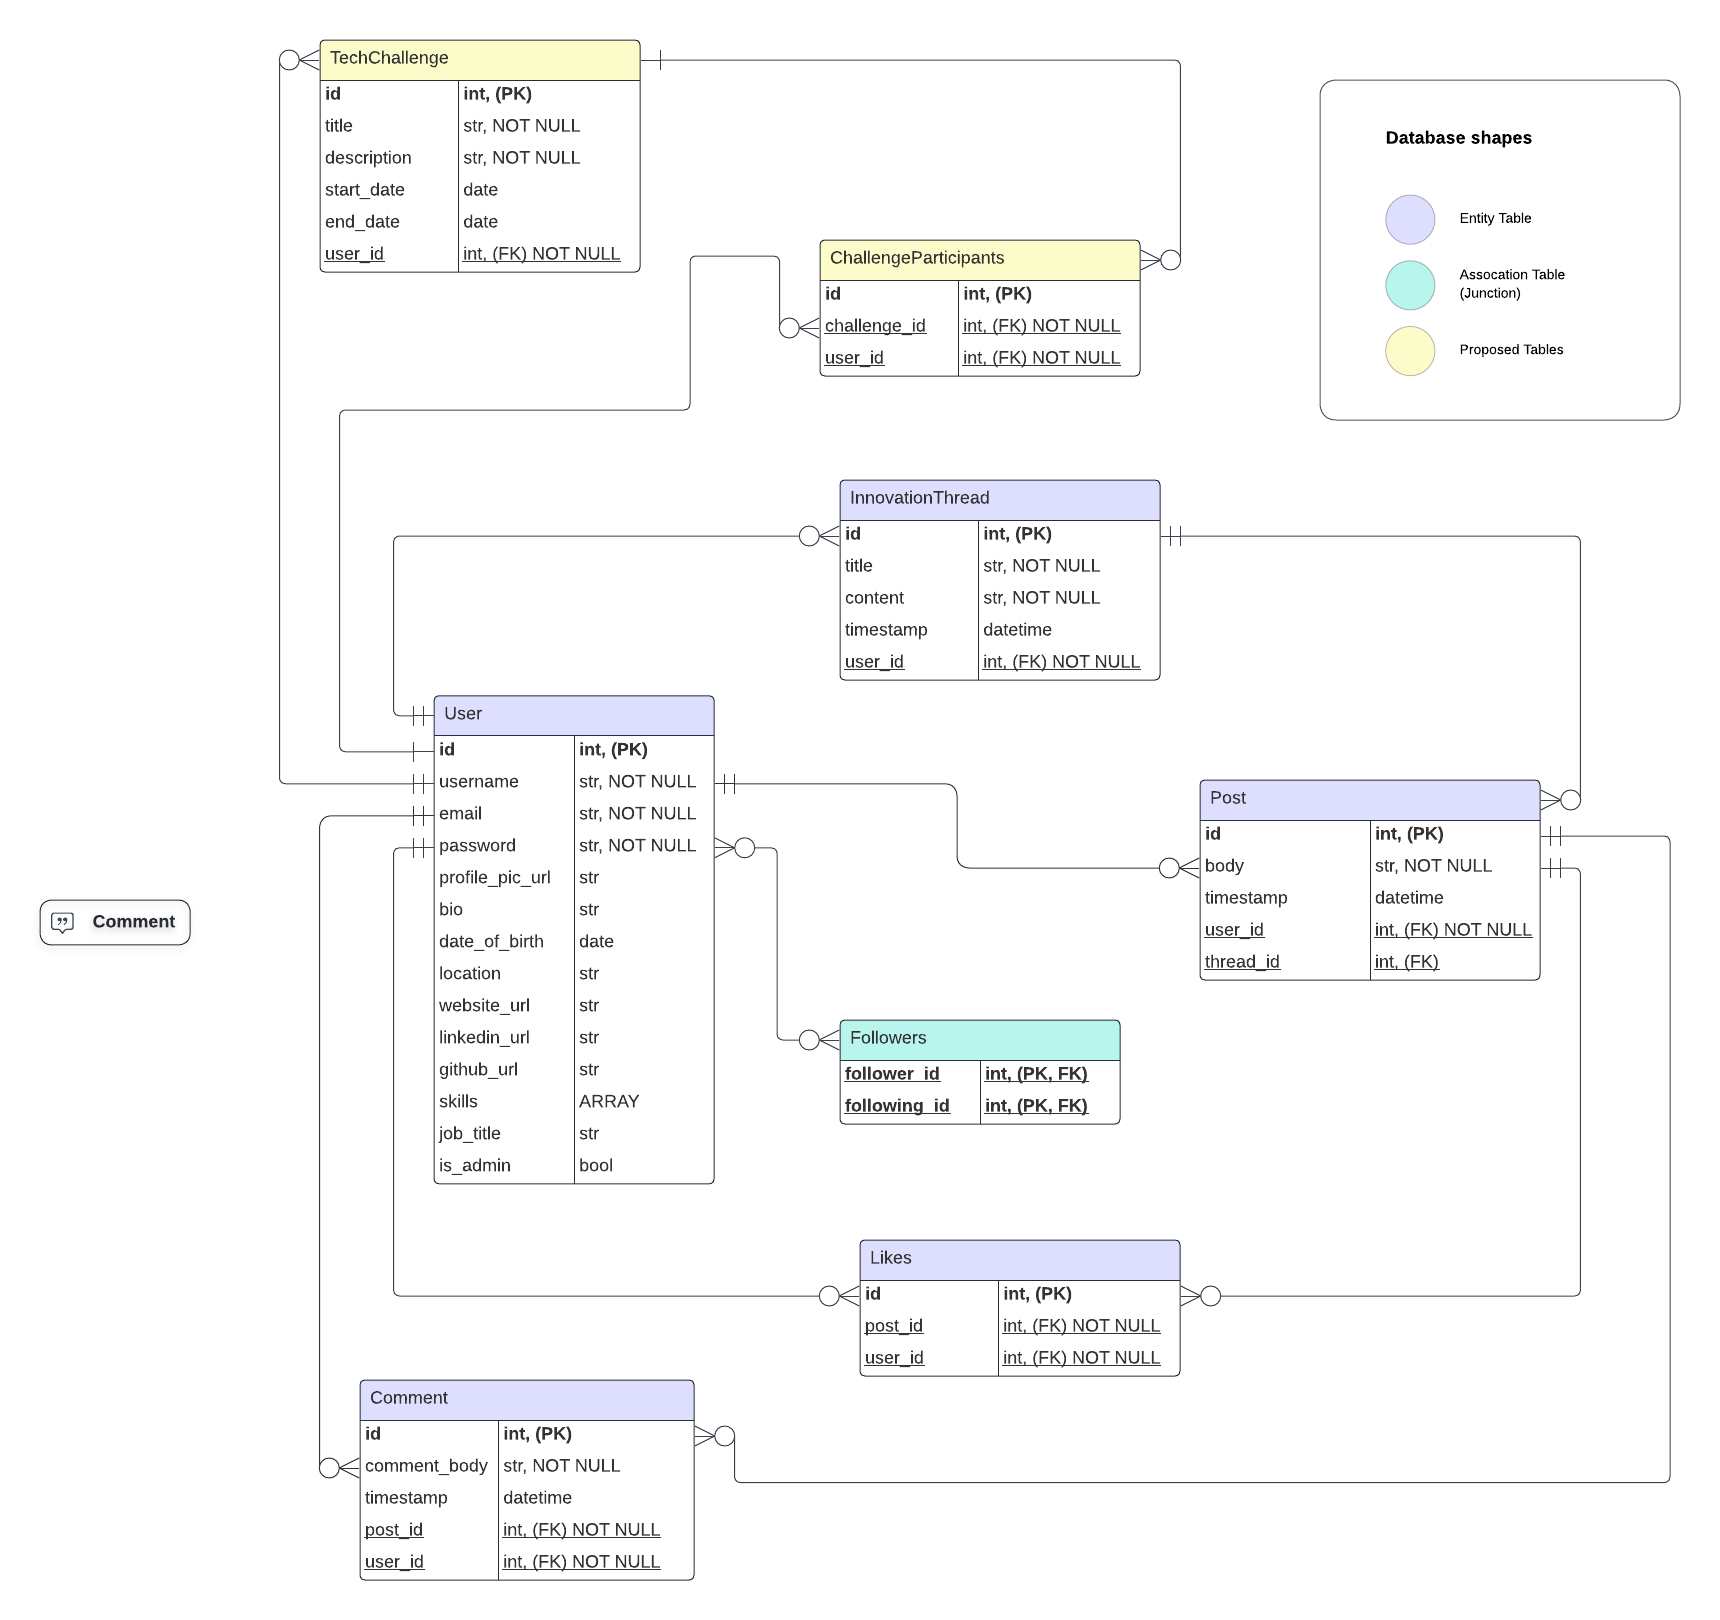
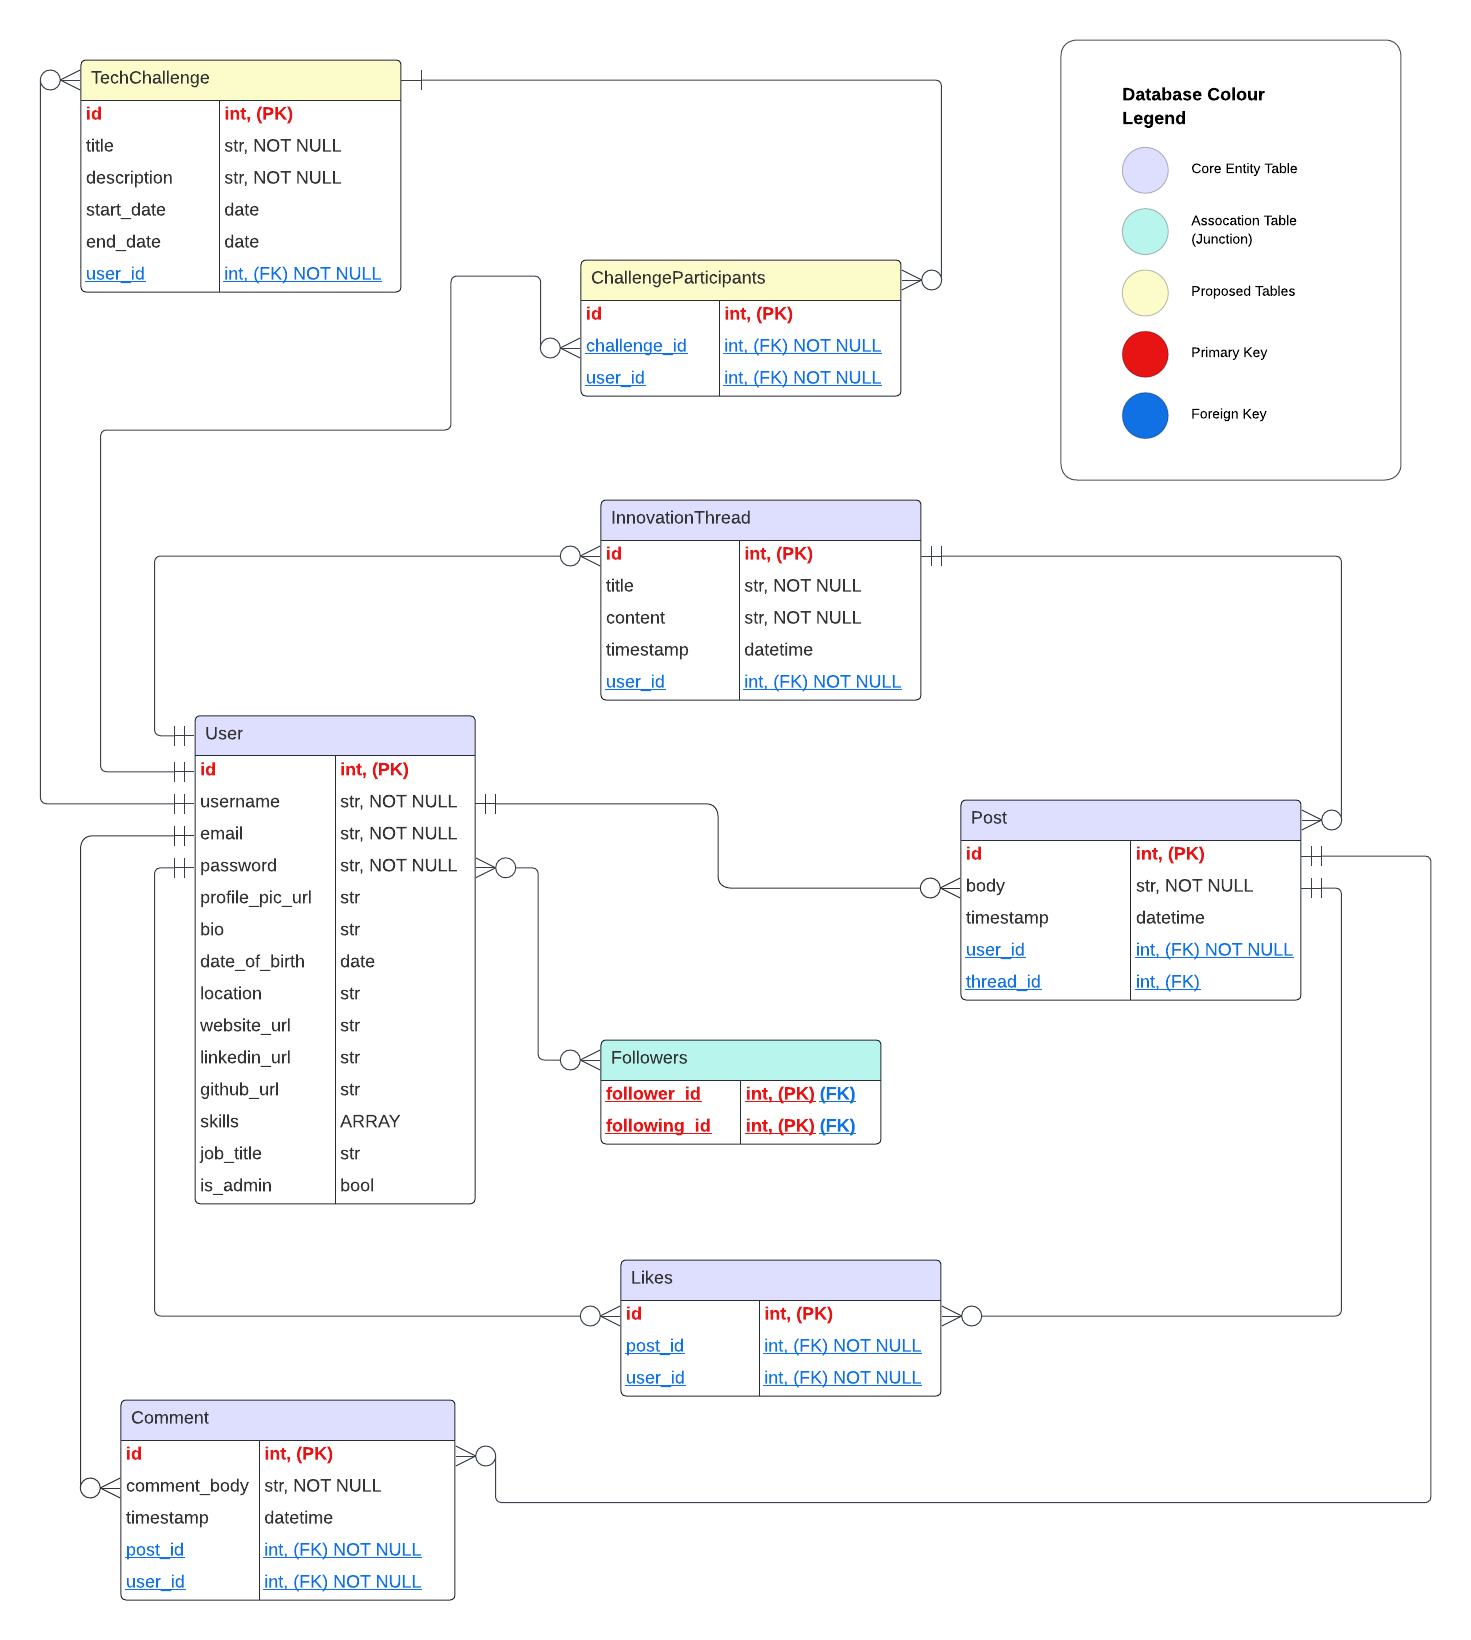
ERD

diff --git a/README.md b/README.md
@@ -109,18 +109,33 @@ Furthermore, I have also defined unique constraints, such as in the `Follower` c
 ### This should focus on the database design BEFORE coding has begun, eg. during the project planning or design phase. (12 POINTS)
 
 
-![SM_API](src/docs/ERD_DIN.png)
 
+![SM_API](src/docs/ERD_DIN.png)
 
 
 
 To ensure a robust and efficient Object-Relational Mapping (ORM) setup for my API, the initial and crucial step is the creation of an Entity Relationship Diagram (ERD). An ERD provides a visual representation of each 'entity' as a table, detailing its attributes; including primaary keys (PKs) and foreign keys (FKs). This diagram is instrumental in comprehansive planning and structuring of the ORM by defining unique identifiers for each table, which ensures that every record can be unniquely referenced and retrieved. Additionally, the ERD maps the relationships between entities: such as, one-to-many, many-to-one and many-to-many, allowing for a clear understanding of how data interrelates.
 
+
+Within my ERD design, I have colour-coded the entities and constructed a "Database Colour Legend" so the viewer is able to easily identify what each colour signifies.
+
+* `Core Entity Table` --> these entity tables have been colour coded in purple. I've used this terminology in the database legend so that theoretically, other developers/viewers would be able to see which entities will be decidedly included in the API.
+  
+* `Association Table` --> the entity tables in green signify the association or junction tables within the database. By highlighting these in a different colour to the "core" entity tables, other developers will be able to delineate that way in which they form a bridge between two core entity tables in order to facilitate many-to-many relationships. Although the `Followers` table does not provide as a junction between two core entities, it still fosters a many-to-many relationship between `User` and `Followers` tables, thus can still be considered an association table.
+  
+* `Proposed Tables` --> the entity tables that have been colour-coded yellow signify "proposed" tables. In theory, these tables represent proposed features to add to the API; which would be a very useful feature, particularly when collaborating within a development team. In the context of my API, they represent proposed additional features that I would like to incorporate if I feel as though I can complete them within the allotted time.
+  
+* `Primary Key` --> in order to promote consistency and clarification, I've colored the primary keys and their associated data type in red: This is also outlined in the database legend. Furthermore, to elucidate these elements further, I have placed them in bold text and identified them using a `(PK)` notation. This allows the viewer to find these key elements faster.
+  
+* `Foreign Key` --> 
+
+
+
 This visualisation is essential for designing the database schema in order to achieve data normalisation, which minimises redundancy and avoids data duplication, thus leading to a more consistent and manageable database. Furthermore, by illustrating FK relationships, the ERD aids in enforing referential integrity, thus ensuring that relationships between table are accurately maintained.
 
 ```
 - Create a detailed ERD with a detailed explanation of how all the relations depicted in the ERD are normalised
-- ERD must include a legend/key of the notation and styles matching a notation or style identified in the accompanying explanation
+- ERD must include a legend/key of the notation and styles, matching a notation or style identified in the accompanying explanation
 - Must include comparisons to how at least ONE model/relations would in other level sof normalisation that the one shown in the ERD
 ```
 
